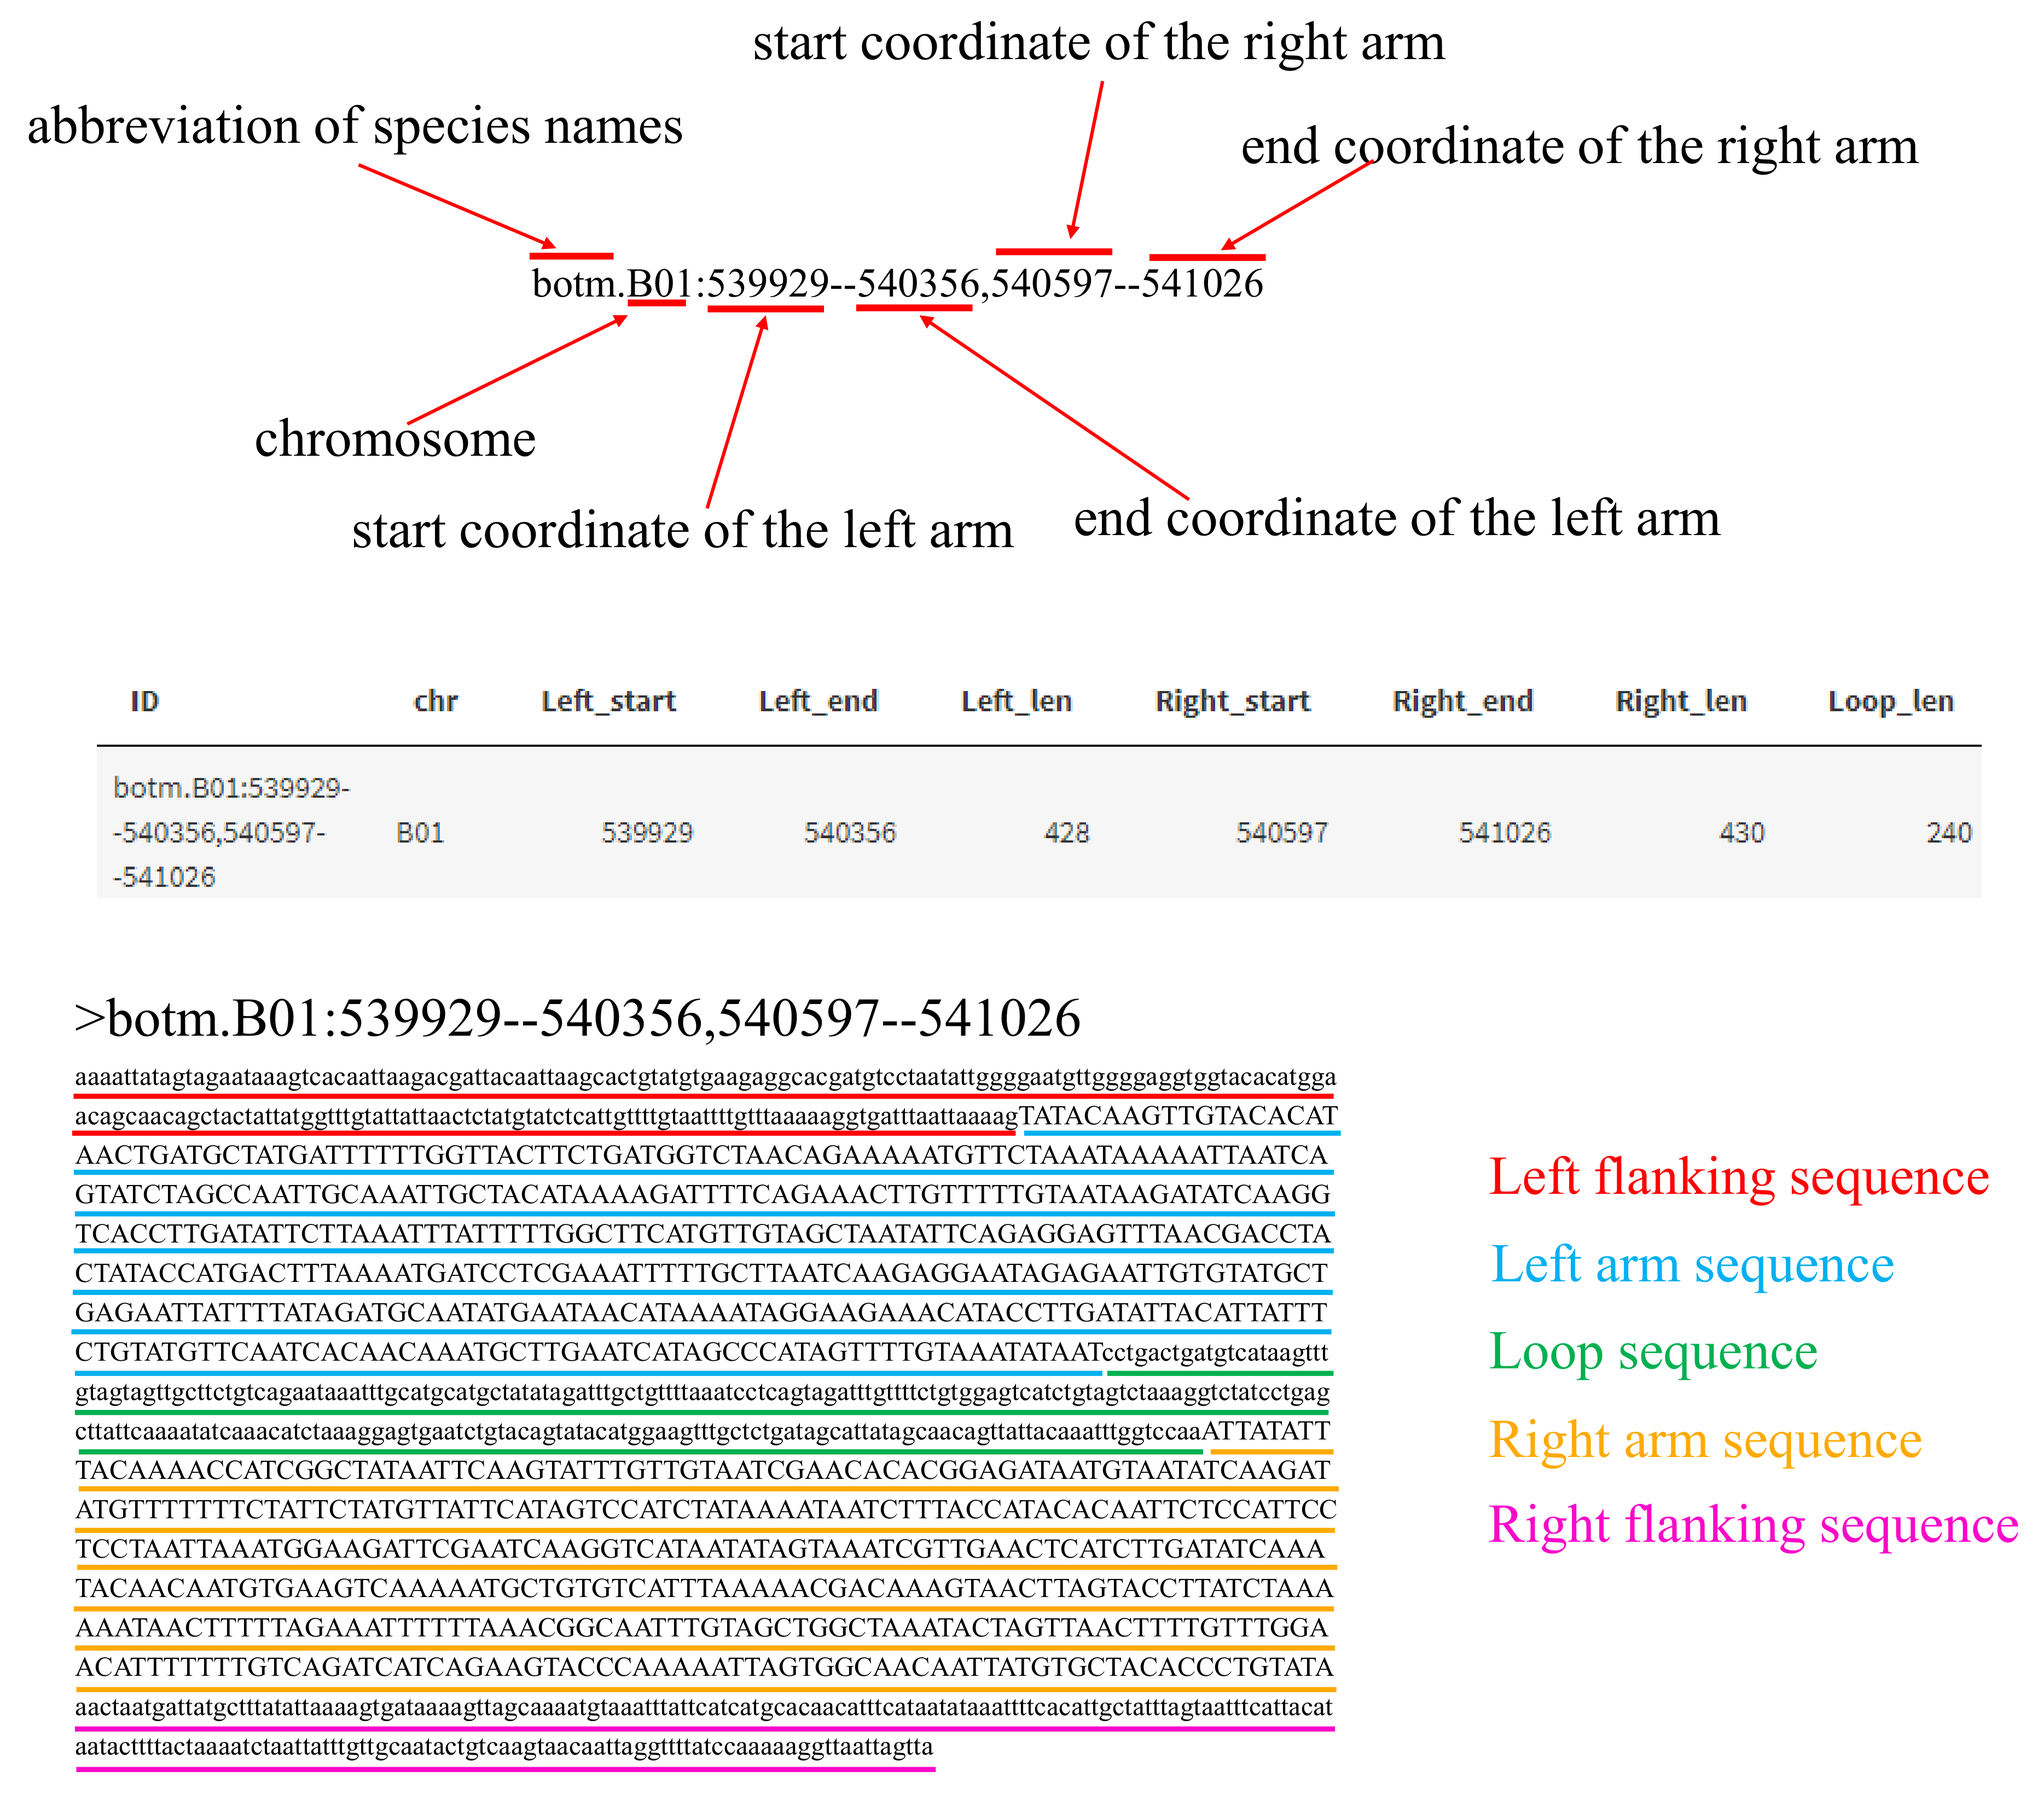
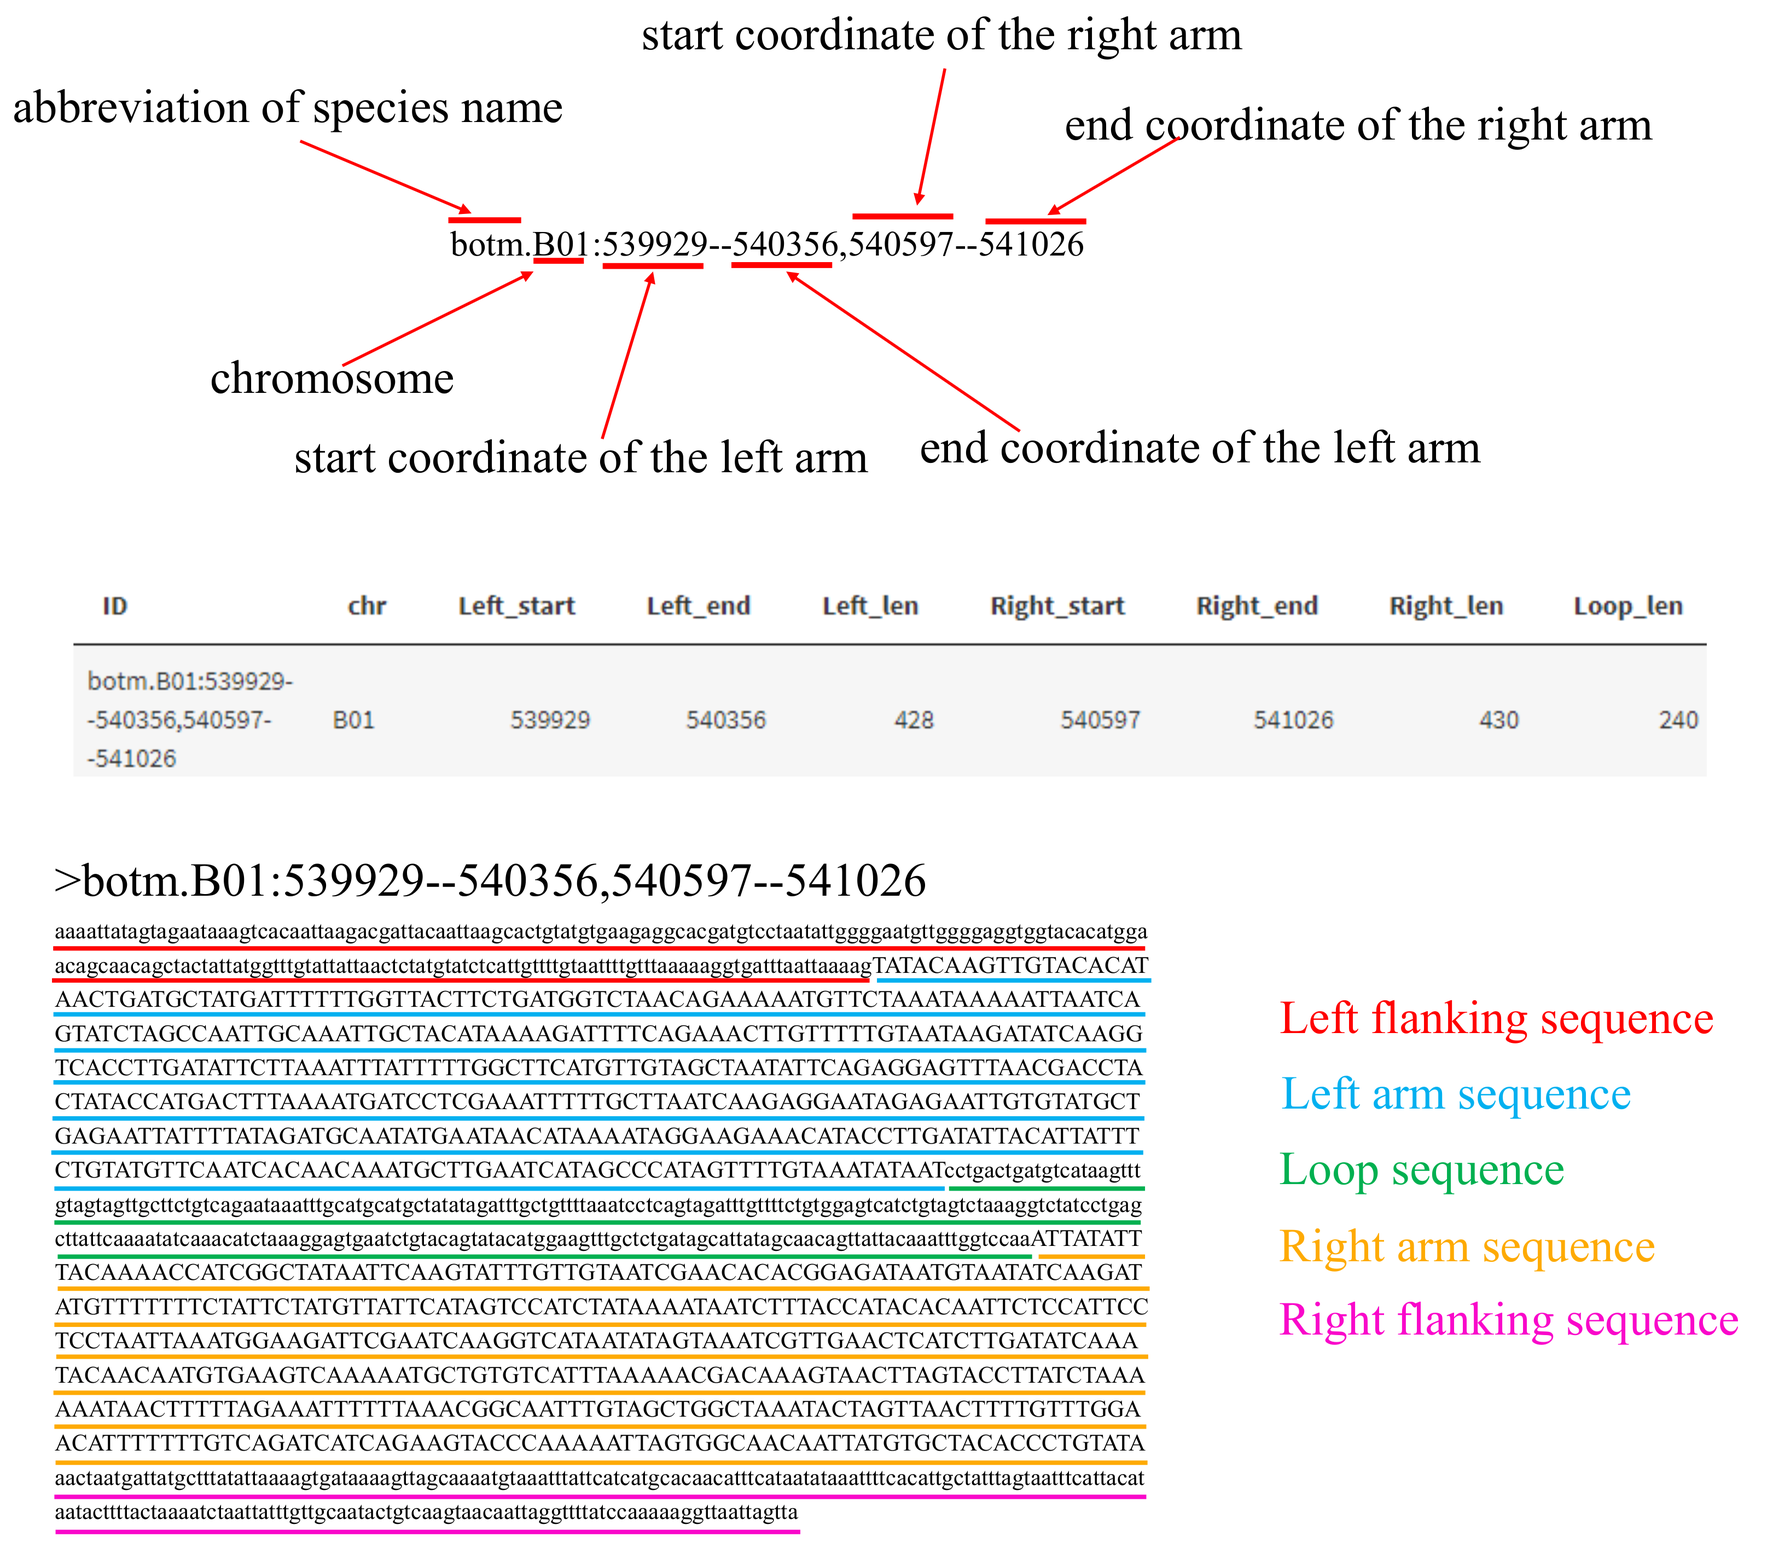
update About

diff --git a/About.md b/About.md
@@ -47,6 +47,18 @@
 >Using <a href="https://tandem.bu.edu/irf/irf.download.html" target="_blank">Inverted Repeats Finder (IRF)</a> [9], we identified a total of 6,619,473 long inverted repeats in the whole genomes of 424 eukaryotes, including 297,317 LIRs in 77 metazoa genomes, 1,731,978 LIRs in 139 plant genomes and 4,590,178 LIRs in 208 vertebrate genomes.
 >We requested a minimum length of 400 nt for both arms of the long inverted repeat identified by IRF, to remove potential miniature inverted-repeat transposable element (MITE) or Alu element from the result of IRF.
 
+<i class="fa fa-circle" aria-hidden="true"></i> <font size="4" color="red"><b>Nomenclature of a long inverted repeat in LIRBase</b></font>  
+>**Each long inverted repeat has a unique identifier in LIRBase** determined by the species name and several features of the LIR including the chromosome ID, the start coordinate of the left arm, the end coordinate of the left arm, the start coordinate of the right arm, the end coordinate of the right arm.
+
+>Please be noted that the sequence of a LIR in LIRBase is composed of the left arm sequence, the loop sequence, the right arm sequence, as well as two 200-bp sequences flanking the LIR (the left flanking sequence and the right flanking sequence). **The genomic coordinates of both arms of the LIR are reflected in the identifier of the LIR, while the flanking sequences are not reflected in the identifier of the LIR.** 
+
+
+<p class="aligncenter"><img src="nomenclature.png" width="85%" height="70%" /></p>
+<style>
+.aligncenter {
+    text-align: center;
+}
+</style>
 
 <i class="fa fa-circle" aria-hidden="true"></i> <font size="4" color="red"><b>References</b></font>   
 >1. Henderson et al. (2006), <a href="https://doi.org/10.1038/ng1804" target="_blank">Dissecting <i>Arabidopsis thaliana</i> DICER function in small RNA processing, gene silencing and DNA methylation patterning</a>, Nature genetics  
